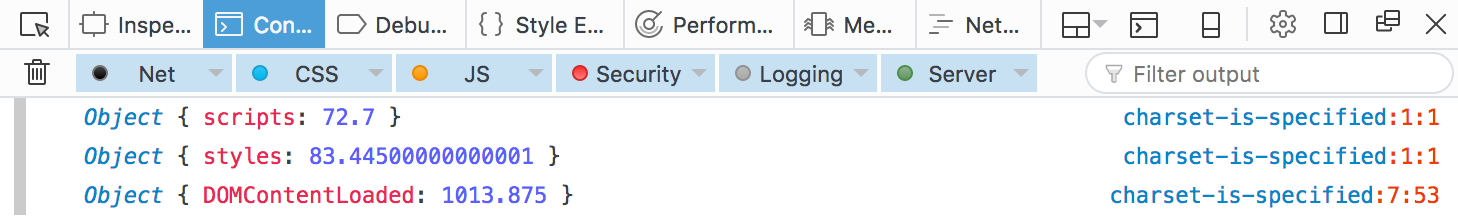
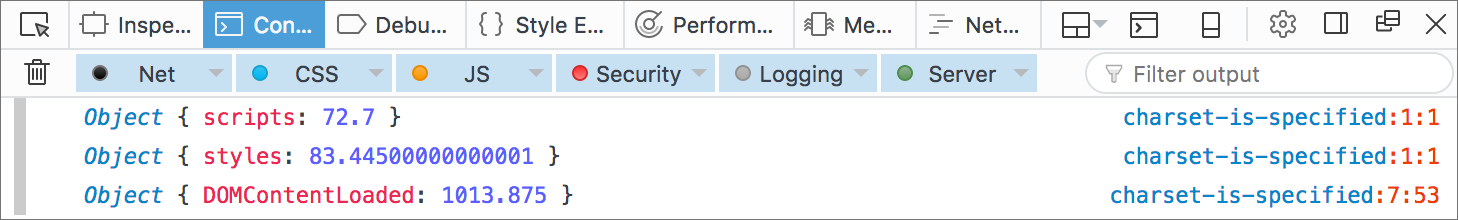
Remove g--border

Changed region(s): [[0.0, 0.9818, 1.0, 1.0], [0.0, 0.0, 1.0, 0.0273]]

diff --git a/documents/assets/main.css b/documents/assets/main.css
@@ -185,9 +185,6 @@ figcaption {
 .g--shady {
   color: #888;
 }
-.g--border {
-  box-shadow: 0 0 0 1px #ccc;
-}
 
 .page {
   margin: 0 auto;

diff --git a/documents/posts/2017-01-04-the-importance-of-html-character-encoding/the-importance-of-html-character-encoding.md b/documents/posts/2017-01-04-the-importance-of-html-character-encoding/the-importance-of-html-character-encoding.md
@@ -54,19 +54,19 @@ immediately along with loading external resources. On the image below, you can s
 the stylesheet have been loaded before DOM becomes interactive.
 
 ![Firefox Web Console: Character encoding is specified](ff-charset-is-specified.png
-"When the character encoding is specified, Firefox starts loading styles and scripts as it is parsing the HTML.")<!--: layout="responsive" mod="wide" clickable="yes" .g--border -->
+"When the character encoding is specified, Firefox starts loading styles and scripts as it is parsing the HTML.")<!--: layout="responsive" mod="wide" clickable="yes" -->
 
 When the character encoding is not specified, then the browser starts parsing HTML only after it gets
 the rest of the document (the first 1024 bytes), causing a delay in loading scripts and stylesheets.
 
 ![Firefox Web Console: Character encoding is not specified](ff-charset-is-not-specified.png
-"When the character encoding is not specified, Firefox waits for the first 1024 bytes before it begins loading styles and scripts.")<!--: layout="responsive" mod="wide" clickable="yes" .g--border -->
+"When the character encoding is not specified, Firefox waits for the first 1024 bytes before it begins loading styles and scripts.")<!--: layout="responsive" mod="wide" clickable="yes" -->
 
 Safari shares similar to Firefox behavior. Things are quite different with Chrome and Edge, they begin parsing HTML
 right away even if the character encoding is not specified or incorrect.
 
 ![Chrome Console: Character encoding is not specified](chrome-charset-is-not-specified.png
-"Chrome starts parsing the HTML and loading styles and scripts as it is loading the document even if the character encoding is not specified.")<!--: layout="responsive" mod="wide" clickable="yes" .g--border -->
+"Chrome starts parsing the HTML and loading styles and scripts as it is loading the document even if the character encoding is not specified.")<!--: layout="responsive" mod="wide" clickable="yes" -->
 
 What’s incorrect encoding? HTML5 specification says that user agents must not support the CESU-8, UTF-7,
 BOCU-1, SCSU, EBCDIC and UTF-32 encodings. For that reason, Firefox and Safari won’t parse
